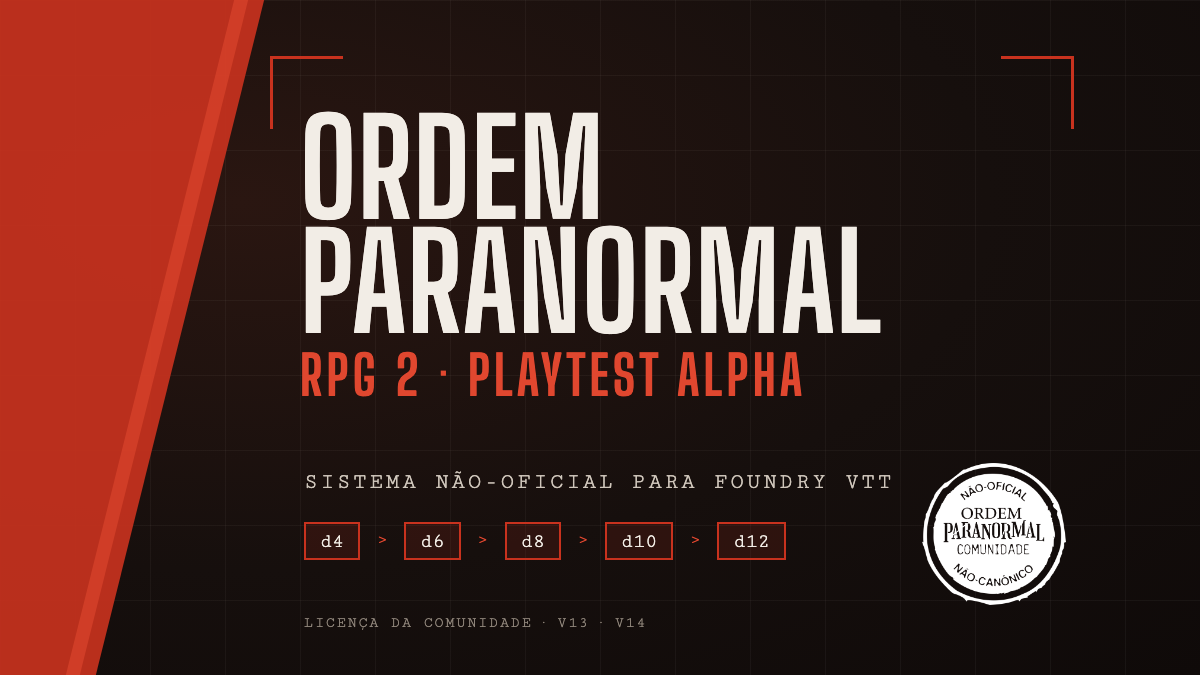
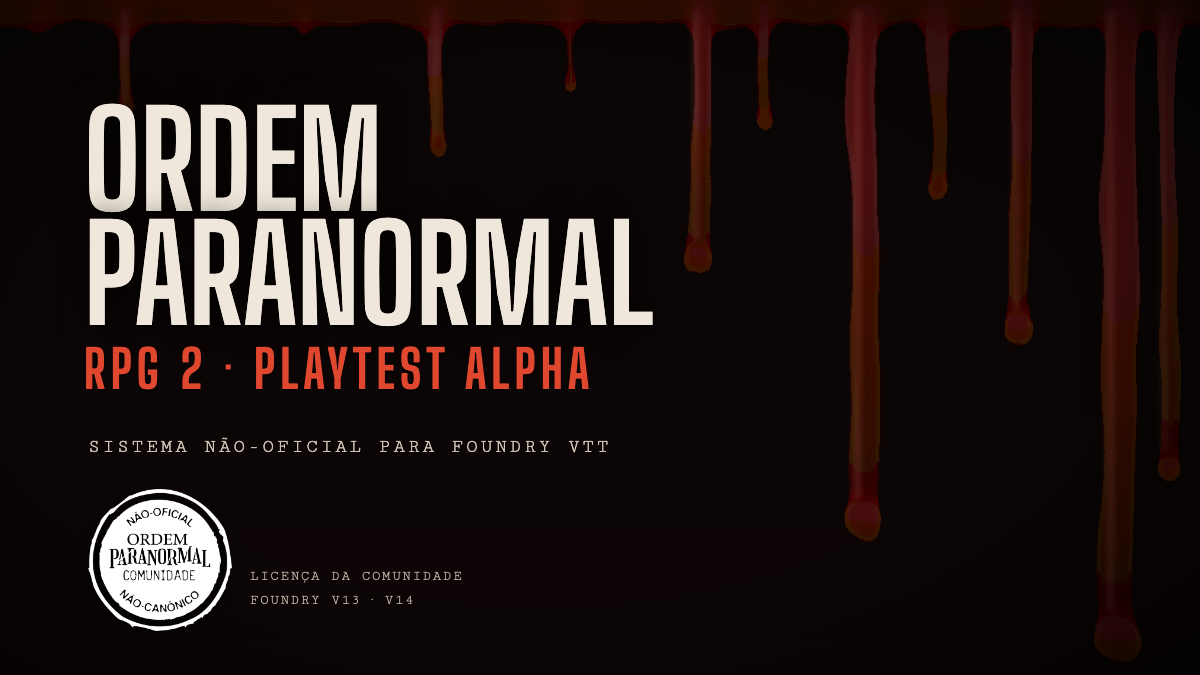
feat(tema): o sistema fica legível no tema claro do Foundry — 0.9.2
O CSS supunha fundo escuro. No claro: título da janela branco sobre creme (o
core pinta o header supondo o dele), diálogo vinho com texto escuro em cima,
selo branco invisível, variantes "claras" de vermelho e dos perfis sumindo em
linha fina e rótulo, pips da ficha na cor da tinta clara.

Agora: o bloco `.theme-light .op2` redefine a paleta inteira (variantes claras
viram cor cheia); o cabeçalho recebe `color: var(--op2-texto)`; as misturas
do diálogo usam `--op2-fundo` em vez de `#000`; o selo vai nos dois tons no
HTML e o CSS mostra o do tema; texto sobre vermelho é `#fff !important` (o
tema claro do core pinta `button`/`select` de escuro por cima). `capturar.mjs`
fotografa no tema que `OP2_TEMA` pedir, em `OP2_SAIDA` — foi assim que cada
tela foi conferida no claro. Regras no `docs/ESTILO-VISUAL.md`.

Card do setup refeito: escuro, escorrido do alto, sem "slide tech".

diff --git a/scripts/marca/setup.html b/scripts/marca/setup.html
@@ -1,29 +1,66 @@
 <!doctype html><html><head><meta charset="utf-8"><style>
 @font-face{font-family:"OP2 Display";src:url("../../assets/fonts/big-shoulders-latin.woff2") format("woff2");font-weight:100 900}
 @font-face{font-family:"OP2 Mono";src:url("../../assets/fonts/cutive-mono-latin.woff2") format("woff2")}
-@font-face{font-family:"OP2 Texto";src:url("../../assets/fonts/bitter-latin.woff2") format("woff2");font-weight:100 900}
-html,body{margin:0;background:#120d0b}
-.card{position:relative;width:1200px;height:675px;overflow:hidden;background:
-  radial-gradient(ellipse at 20% 30%,#2a1611 0%,#160f0d 55%,#0f0a09 100%);color:#f2ede6;font-family:"OP2 Texto",serif}
-.grade{position:absolute;inset:0;background-image:linear-gradient(rgba(242,237,230,.045) 1px,transparent 1px),linear-gradient(90deg,rgba(242,237,230,.045) 1px,transparent 1px);background-size:75px 75px}
-.faixa{position:absolute;left:-120px;top:0;width:300px;height:675px;background:#c8321e;transform:skewX(-14deg);opacity:.92}
-.faixa2{position:absolute;left:150px;top:0;width:14px;height:675px;background:#e0472f;transform:skewX(-14deg);opacity:.6}
-.canto{position:absolute;width:70px;height:70px;border:3px solid #c8321e}
-.canto.tl{left:270px;top:56px;border-right:0;border-bottom:0}.canto.br{right:126px;top:56px;border-left:0;border-bottom:0}
-.titulo{position:absolute;left:300px;top:112px;font-family:"OP2 Display";font-weight:800;font-size:132px;line-height:.86;letter-spacing:.01em;text-transform:uppercase}
-.titulo small{display:block;font-size:54px;font-weight:600;color:#e0472f;letter-spacing:.08em;margin-top:14px}
-.sub{position:absolute;left:304px;top:470px;font-family:"OP2 Mono",monospace;font-size:22px;letter-spacing:.14em;text-transform:uppercase;color:#cfc6bb}
-.dados{position:absolute;left:304px;top:522px;display:flex;gap:14px;font-family:"OP2 Mono",monospace;font-size:20px;color:#f2ede6}
-.dados span{border:2px solid #c8321e;padding:6px 14px;background:rgba(200,50,30,.14)}
-.dados .seta{border:0;background:none;color:#e0472f;padding:6px 2px}
-.selo{position:absolute;right:134px;bottom:70px;width:144px}
-.mono{position:absolute;left:304px;bottom:44px;font-family:"OP2 Mono",monospace;font-size:15px;letter-spacing:.12em;color:#8f857a;text-transform:uppercase}
+html,body{margin:0;background:#070404}
+.card{position:relative;width:1200px;height:675px;overflow:hidden;background:#0a0505;color:#ece4d8}
+.fundo{position:absolute;inset:0;width:1200px;height:675px}
+.titulo{position:absolute;left:84px;top:104px;font-family:"OP2 Display";font-weight:800;font-size:132px;line-height:.86;text-transform:uppercase;
+  color:#efe7db;text-shadow:0 2px 0 rgba(0,0,0,.6),0 0 30px rgba(0,0,0,.7)}
+.titulo small{display:block;margin-top:16px;font-size:52px;font-weight:600;letter-spacing:.1em;color:#e0472f;text-shadow:0 2px 0 rgba(0,0,0,.6)}
+.sub{position:absolute;left:88px;top:436px;font-family:"OP2 Mono",monospace;font-size:19px;letter-spacing:.16em;text-transform:uppercase;color:#cfc3b5;text-shadow:0 1px 0 rgba(0,0,0,.8)}
+.selo{position:absolute;left:88px;bottom:44px;width:144px;filter:drop-shadow(0 2px 8px rgba(0,0,0,.9))}
+.mono{position:absolute;left:250px;bottom:62px;font-family:"OP2 Mono",monospace;font-size:14px;letter-spacing:.12em;color:#b8aa9c;text-transform:uppercase;line-height:1.7;text-shadow:0 1px 0 rgba(0,0,0,.8)}
 </style></head><body><div class="card">
-<div class="grade"></div><div class="faixa"></div><div class="faixa2"></div>
-<div class="canto tl"></div><div class="canto br"></div>
+<svg class="fundo" viewBox="0 0 1200 675" xmlns="http://www.w3.org/2000/svg">
+  <defs>
+    <filter id="goo" x="-20%" y="-20%" width="140%" height="140%">
+      <feGaussianBlur stdDeviation="9" result="b"/>
+      <feColorMatrix in="b" values="1 0 0 0 0  0 1 0 0 0  0 0 1 0 0  0 0 0 30 -14"/>
+    </filter>
+    <filter id="organico" x="-10%" y="-10%" width="120%" height="120%">
+      <feTurbulence type="fractalNoise" baseFrequency="0.02 0.006" numOctaves="2" seed="5" result="t"/>
+      <feDisplacementMap in="SourceGraphic" in2="t" scale="18" xChannelSelector="R" yChannelSelector="G"/>
+    </filter>
+    <filter id="suave2"><feGaussianBlur stdDeviation="3"/></filter>
+    <linearGradient id="sangue" x1="0" y1="0" x2="0" y2="1">
+      <stop offset="0" stop-color="#5a0f0a"/><stop offset=".6" stop-color="#3c0906"/><stop offset="1" stop-color="#2a0604"/>
+    </linearGradient>
+    <linearGradient id="fundoDeg" x1="0" y1="0" x2="0" y2="1">
+      <stop offset="0" stop-color="#0a0505"/><stop offset="1" stop-color="#0d0505"/>
+    </linearGradient>
+    <clipPath id="quadro"><rect width="1200" height="675"/></clipPath>
+  </defs>
+  <rect width="1200" height="675" fill="url(#fundoDeg)"/>
+  <!-- escorridos: uma faixa fina no alto e fios descendo, mais à direita; o título fica limpo -->
+  <g clip-path="url(#quadro)" filter="url(#organico)">
+    <g filter="url(#goo)" fill="url(#sangue)">
+      <rect x="-20" y="-60" width="1240" height="84"/>
+      <rect x="1102" y="0" width="34" height="640" rx="17"/><circle cx="1119" cy="640" r="24"/>
+      <rect x="1010" y="0" width="22" height="330" rx="11"/><circle cx="1021" cy="330" r="17"/>
+      <rect x="1160" y="0" width="18" height="470" rx="9"/><circle cx="1169" cy="470" r="14"/>
+      <rect x="930" y="0" width="16" height="190" rx="8"/><circle cx="938" cy="190" r="13"/>
+      <rect x="850" y="0" width="26" height="520" rx="13"/><circle cx="863" cy="520" r="20"/>
+      <rect x="760" y="0" width="14" height="120" rx="7"/><circle cx="767" cy="120" r="11"/>
+      <rect x="690" y="0" width="20" height="260" rx="10"/><circle cx="700" cy="260" r="15"/>
+      <rect x="560" y="0" width="12" height="90" rx="6"/><circle cx="566" cy="90" r="10"/>
+      <rect x="430" y="0" width="16" height="150" rx="8"/><circle cx="438" cy="150" r="12"/>
+      <rect x="300" y="0" width="10" height="70" rx="5"/><circle cx="305" cy="70" r="8"/>
+      <rect x="120" y="0" width="14" height="110" rx="7"/><circle cx="127" cy="110" r="11"/>
+      <rect x="40" y="0" width="9" height="60" rx="4"/><circle cx="44" cy="60" r="7"/>
+    </g>
+  </g>
+  <!-- fio de luz na crista de cada escorrido: é o que faz parecer molhado -->
+  <g clip-path="url(#quadro)" fill="#ff9a80" opacity=".22" filter="url(#suave2)">
+    <rect x="1108" y="10" width="5" height="600" rx="2"/><rect x="1014" y="10" width="4" height="300" rx="2"/>
+    <rect x="1163" y="10" width="3" height="440" rx="1.5"/><rect x="855" y="10" width="5" height="490" rx="2"/>
+    <rect x="694" y="10" width="4" height="230" rx="2"/><rect x="434" y="10" width="3" height="130" rx="1.5"/>
+    <rect x="123" y="10" width="3" height="95" rx="1.5"/>
+  </g>
+  <radialGradient id="vin" cx="45%" cy="50%" r="75%"><stop offset=".5" stop-color="#000" stop-opacity="0"/><stop offset="1" stop-color="#000" stop-opacity=".7"/></radialGradient>
+  <rect width="1200" height="675" fill="url(#vin)"/>
+</svg>
 <div class="titulo">Ordem<br>Paranormal<small>RPG 2 · Playtest Alpha</small></div>
 <div class="sub">Sistema não-oficial para Foundry VTT</div>
-<div class="dados"><span>d4</span><span class="seta">›</span><span>d6</span><span class="seta">›</span><span>d8</span><span class="seta">›</span><span>d10</span><span class="seta">›</span><span>d12</span></div>
-<div class="mono">Licença da Comunidade · v13 · v14</div>
 <img class="selo" src="../../assets/licenca/selo-branco.png">
+<div class="mono">Licença da Comunidade<br>Foundry v13 · v14</div>
 </div></body></html>

diff --git a/styles/parciais/_base.scss b/styles/parciais/_base.scss
@@ -65,13 +65,21 @@
   }
 }
 
+// Selo da licença em dois tons: o branco vai no tema escuro, o preto no claro. Os dois
+// vão no HTML e o tema mostra um — sem JS, e troca de tema ao vivo funciona.
+.op2-selo--claro { display: none; }
+:root[data-theme="light"] .op2-selo--claro,
+.theme-light .op2-selo--claro { display: inline-block; }
+:root[data-theme="light"] .op2-selo--escuro,
+.theme-light .op2-selo--escuro { display: none; }
+
 // Tag vermelha rasgada — a forma que o livro usa para rotular tudo.
 // Os ângulos são irregulares de propósito: retângulo arredondado não é a linguagem daqui.
 .op2-tag {
   display: inline-block;
   padding: 0.2em 0.7em 0.25em;
   background: var(--op2-vermelho);
-  color: #fff;
+  color: #fff !important; // sobre vermelho é sempre branco; o tema claro do core pinta button/select de escuro
   font-family: var(--op2-fonte-display);
   font-weight: 700;
   font-size: 0.9rem;
@@ -96,7 +104,7 @@
       padding: 0.2em 0.6em;
       border: 0;
       background: transparent;
-      color: #fff;
+      color: #fff !important;
       font-family: var(--op2-fonte-display);
       font-weight: 700;
       text-transform: uppercase;
@@ -278,6 +286,10 @@
     background: var(--op2-superficie-alta);
     backdrop-filter: none;
     border-bottom: 1px solid var(--op2-borda-janela);
+    // O core pinta o título de branco supondo o header escuro dele; o nosso segue
+    // a superfície do tema — no claro, ficava branco sobre creme (achado em uso real).
+    color: var(--op2-texto);
+    .window-title, .header-control, button { color: var(--op2-texto); }
   }
 
   .window-content {

diff --git a/styles/parciais/_investigacao.scss b/styles/parciais/_investigacao.scss
@@ -808,7 +808,7 @@ details[open] > summary.op2-painel-titulo::before { transform: rotate(45deg); }
   padding: 0.3em 0.7em;
   border: 0;
   background: linear-gradient(160deg, var(--op2-vermelho) 0%, var(--op2-vermelho-escuro) 100%);
-  color: #fff;
+  color: #fff !important; // sobre vermelho é sempre branco; o tema claro do core pinta button/select de escuro
   font-family: var(--op2-fonte-display);
   font-weight: 700;
   letter-spacing: 0.06em;
@@ -859,7 +859,7 @@ details[open] > summary.op2-painel-titulo::before { transform: rotate(45deg); }
   padding: 0;
   border: 0;
   background: linear-gradient(160deg, var(--op2-vermelho) 0%, var(--op2-vermelho-escuro) 100%);
-  color: #fff;
+  color: #fff !important; // sobre vermelho é sempre branco; o tema claro do core pinta button/select de escuro
   font-size: 1rem;
   cursor: pointer;
   clip-path: polygon(0 7%, 100% 0, 96% 93%, 4% 100%);
@@ -879,7 +879,7 @@ details[open] > summary.op2-painel-titulo::before { transform: rotate(45deg); }
   &:active { transform: translateY(0); }
 
   &:focus-visible {
-    outline: 2px solid var(--op2-tinta);
+    outline: 2px solid var(--op2-texto);
     outline-offset: 2px;
   }
 }

diff --git a/styles/parciais/_dialogos.scss b/styles/parciais/_dialogos.scss
@@ -6,17 +6,20 @@
   // Vermelho bem escuro, quase marrom: o suficiente pra separar do resto da tela
   // sem saturar. O primeiro tom era forte demais e brigava com o conteúdo
   // (achado em uso real).
-  --op2-dialog-vinho: color-mix(in srgb, var(--op2-vermelho-escuro) 42%, #000);
+  // Misturado com o fundo do tema, não com preto: no claro vira um rosa pálido em
+  // vez de um vinho com texto escuro em cima (achado em uso real, tema claro).
+  --op2-dialog-vinho: color-mix(in srgb, var(--op2-vermelho-escuro) 42%, var(--op2-fundo));
+  --op2-dialog-borda: color-mix(in srgb, var(--op2-vermelho) 55%, var(--op2-fundo));
 
   .window-content {
     background: linear-gradient(180deg, var(--op2-dialog-vinho) 0%, var(--op2-fundo) 60%);
-    border: 1px solid color-mix(in srgb, var(--op2-vermelho) 55%, #000);
+    border: 1px solid var(--op2-dialog-borda);
   }
 
   // O chrome da janela acompanha, senão a barra de título fica destoando.
   .window-header {
     background: var(--op2-dialog-vinho);
-    border-bottom: 1px solid color-mix(in srgb, var(--op2-vermelho) 55%, #000);
+    border-bottom: 1px solid var(--op2-dialog-borda);
   }
 }
 

diff --git a/styles/parciais/_ficha.scss b/styles/parciais/_ficha.scss
@@ -81,7 +81,7 @@
     max-height: 150px;
     border: 1px solid var(--op2-linha-forte);
     border-radius: var(--op2-raio);
-    background: color-mix(in srgb, var(--op2-preto) 60%, transparent);
+    background: color-mix(in srgb, var(--op2-fundo) 60%, transparent);
     grid-area: retrato;
 
     img {
@@ -279,8 +279,8 @@
   transform: skewX(-18deg);
 
   &--cheio {
-    border-color: var(--op2-tinta);
-    background: var(--op2-tinta);
+    border-color: var(--op2-texto);
+    background: var(--op2-texto);
   }
 
   &:hover { border-color: var(--op2-vermelho-claro); }
@@ -343,8 +343,8 @@
 
 @keyframes op2-pulso-critico {
   0%, 100% {
-    border-color: var(--op2-tinta);
-    background: var(--op2-tinta);
+    border-color: var(--op2-texto);
+    background: var(--op2-texto);
     box-shadow: 0 0 0 var(--op2-vermelho-claro);
   }
   50% {
@@ -376,7 +376,7 @@
 
   &__preenchido {
     height: 100%;
-    background: var(--op2-tinta);
+    background: var(--op2-texto);
     transition: width 0.2s ease-out;
   }
 }

diff --git a/styles/parciais/_tokens.scss b/styles/parciais/_tokens.scss
@@ -63,6 +63,16 @@
   --op2-texto-fraco: #6b615a;
   --op2-linha: #{rgba(#1a1512, 0.14)};
   --op2-linha-forte: #{rgba(#1a1512, 0.26)};
+  // As versões "claras" existem para linha fina e rótulo sobre fundo escuro; sobre
+  // fundo claro elas somem — aqui viram a cor cheia (ou mais escura ainda).
+  --op2-vermelho-claro: #a8281a;
+  --op2-vermelho-escuro: #7a1e12;
+  --op2-perfil-executor-claro: var(--op2-perfil-executor);
+  --op2-perfil-analista-claro: #24589e;
+  --op2-perfil-vigilante-claro: #345818;
+  --op2-sucesso: #4f7a30;
+  --op2-critico: #8f6b12;
+  --op2-tinta-fraca: #6b615a;
 }
 
 }

diff --git a/styles/parciais/_dados.scss b/styles/parciais/_dados.scss
@@ -9,7 +9,7 @@
   height: 1.5rem;
   flex: 0 0 auto;
   background: var(--op2-vermelho);
-  color: #fff;
+  color: #fff !important; // sobre vermelho é sempre branco; o tema claro do core pinta button/select de escuro
   font-family: var(--op2-fonte-display);
   font-size: 0.82rem;
   font-weight: 700;

diff --git a/docs/ESTILO-VISUAL.md b/docs/ESTILO-VISUAL.md
@@ -94,3 +94,26 @@ pdffonts docs/Ordem-*.pdf                                       # fontes usadas
 
 Páginas úteis: **15** (ficha diagramada com legendas), **16** (escalas de atributo e
 perícia com os ícones), **22** (exemplo de Ponto de Interesse, referência para a fase 2).
+
+## Os dois temas do Foundry
+
+O Foundry marca o tema do usuário com `theme-light`/`theme-dark` no `body` e em cada
+janela (`themed theme-light`); no v14 também `:root[data-theme]`. O sistema segue o
+tema, nunca força um:
+
+- **Tudo passa pelos tokens** (`_tokens.scss`): `--op2-fundo`, `--op2-superficie`,
+  `--op2-texto`, `--op2-linha`… O bloco `.theme-light .op2` redefine a paleta inteira,
+  inclusive as variantes "claras" (`--op2-vermelho-claro`, `--op2-perfil-*-claro`) que
+  existem para linha fina e rótulo sobre fundo escuro e viram cor cheia sobre fundo claro.
+- **Cor fixa só quando é sinal, não tema**: texto branco sobre vermelho (`#fff
+  !important` — o tema claro do core pinta `button`/`select` de escuro por cima).
+  `--op2-tinta`/`--op2-painel`/`--op2-preto` são a paleta do livro, não superfícies:
+  fora dos tokens, use `--op2-texto`/`--op2-superficie`/`--op2-fundo`.
+- **Cabeçalho da janela** recebe `color: var(--op2-texto)` — o core supõe o header escuro
+  dele e põe o título branco; o nosso é a superfície do tema.
+- **Misturas com `color-mix`** usam `var(--op2-fundo)`, não `#000`: o vinho do diálogo
+  vira rosa pálido no claro em vez de vinho com texto escuro em cima.
+- **Selo da licença** em dois tons no HTML (`op2-selo--escuro`/`--claro`); o CSS mostra o
+  do tema, sem JS.
+- **Conferir nos dois**: `OP2_TEMA=light OP2_SAIDA=/tmp/claro node scripts/e2e/capturar.mjs`
+  fotografa as telas no claro. Os prints do README são no escuro.

diff --git a/CHANGELOG.md b/CHANGELOG.md
@@ -5,6 +5,12 @@ Versões seguem [SemVer](https://semver.org/lang/pt-BR/).
 
 ## [Não publicado]
 
+## [0.9.2] — 2026-09-07
+
+- **Tema claro do Foundry**: cabeçalho das janelas, diálogos, selo (preto no claro), cores de
+  linha e rótulo, pips da ficha e botões vermelhos — tudo legível nos dois temas.
+- Card do setup refeito: escuro, com o escorrido no alto.
+
 ## [0.9.1] — 2026-09-07
 
 - Card do sistema na tela de setup (`media` tipo `setup`): fontes e paleta do sistema, selo
